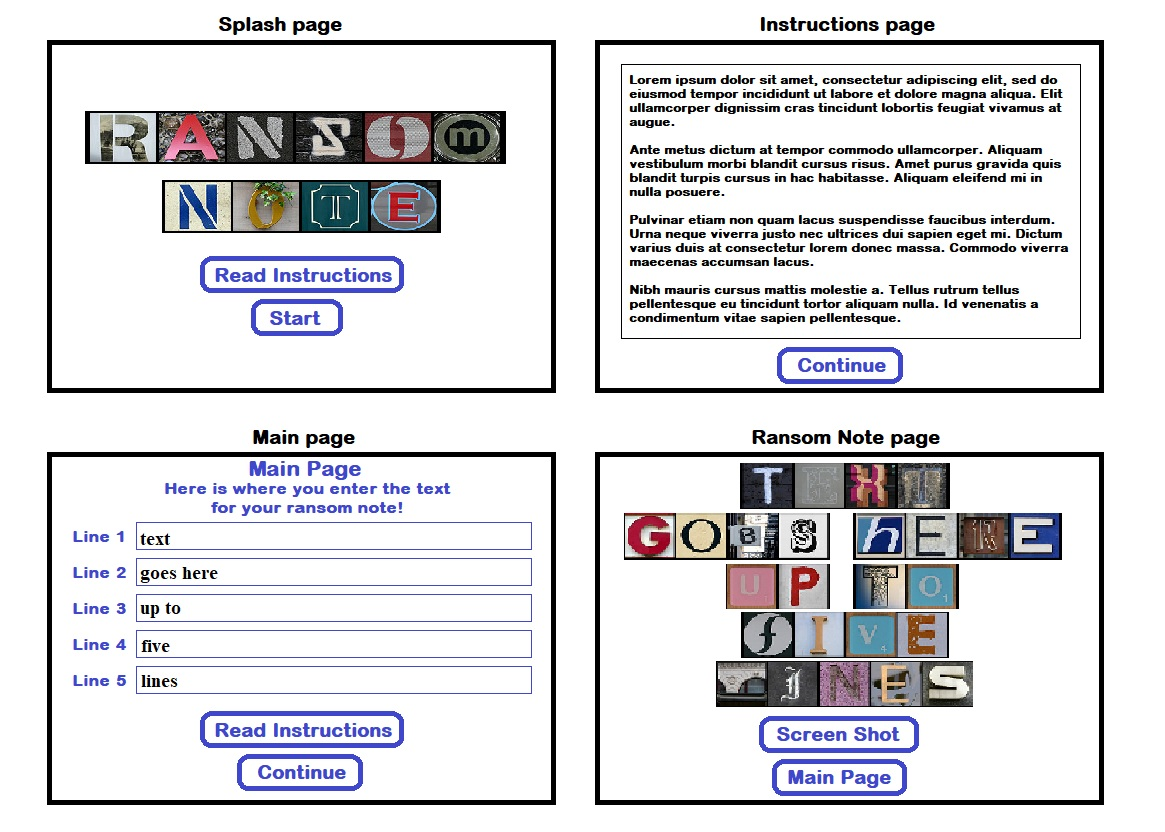
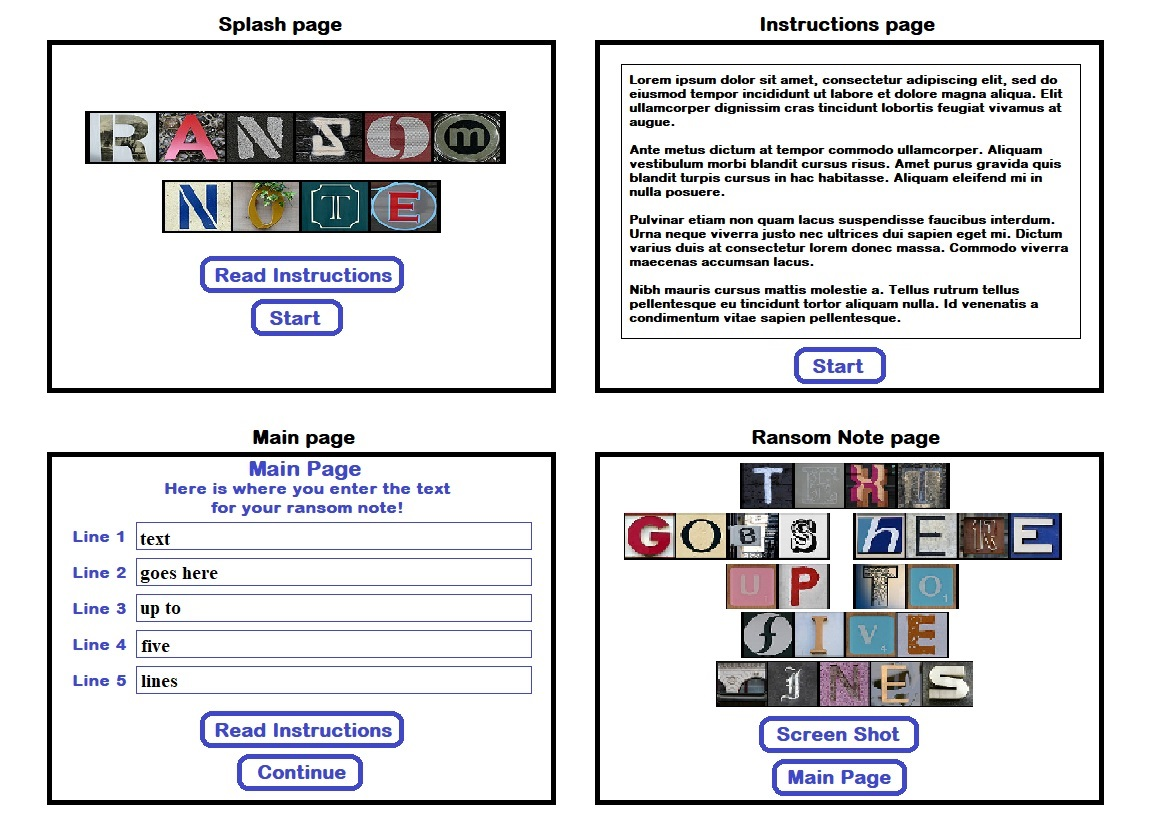
Start wiring up separate pages
The main function now calls generateHtml, renderPage, and listeners
functions. These three functions are working, enough to get the splash
page to render and the Read Instructions button to display a placeholder
for the Instructions page.

Changed region(s): [[0.6489, 0.4062, 0.7725, 0.4688]]

diff --git a/index.js b/index.js
@@ -1,30 +1,155 @@
 'use strict';
 
-function main(){
-    $('.lightbox_trigger').click(function(e){
-        e.preventDefault();
-        var image_href=$(this).attr("href");
-        if($('#lightbox').length>0){
-            $('#content').html(`<img src='${image_href}' />`);
-            $('#lightbox').fadeIn('slow');
-        } else{
-            var lightbox=`
-                <div id="lightbox">
-                    <p class="exit">X</p>
-                    <div id="content">
-                        <img src='${image_href}' />
-                    </div>
-                </div>
-            `;
-            $('body').append(lightbox);
-            $('#lightbox').hide();
-            $('#lightbox').fadeIn('slow');
-        }
-    });
+/******************************************************** 
+ All global variables here. 
+********************************************************/
 
-	$('body').on('click', '.exit', function() {
-		$('#lightbox').fadeOut();
-	});
+const STORE = {  // All the variables connected with the state of the DOM go here.
+    currentView: 'splash',
+    line_1: '',
+    line_2: '',
+    line_3: '',
+    line_4: '',
+    line_5: ''
+  };
+
+/******************************************************** 
+Step 1: Render the DOM. 
+********************************************************/
+
+/******************************************************** 
+Step 1a: Generate the HTML code. 
+********************************************************/
+
+const generateHtml={
+    doHtmlPages: function(){
+        console.log('In the doHtmlPages method.');
+        this.splashHtml();
+        this.instructionsHtml();
+        // this.mainHtml();
+        // this.ransomNoteHtml();
+    },
+
+    splashHtml: function(){
+        console.log('In the splashHtml method.');
+        let pageSplashHtml=`
+        <form class="buttonForm">
+            <div class="buttonBox"><button type="button" id="js-instructionsButton" class="js-button js-instructionsButton">Read Instructions</button></div>
+            <div class="buttonBox"><button type="button" id="js-userButton" class="js-button js-userButton"></button></div>
+        </form>
+        `;
+        
+        $('div.js-pageViewSplashHtml').html(pageSplashHtml);
+        $('div.js-pageViewSplashHtml').hide();
+    },
+
+    instructionsHtml: function(){
+        console.log('In the instructionsHtml method.');
+        let pageInstructionsHtml=`
+        <form class="buttonForm">
+            <p>This is where the instructions will go.</p>
+            <div class="buttonBox"><button type="button" id="js-userButton" class="js-button js-userButton"></button></div>
+        </form>
+        `;
+         
+        $('div.js-pageViewInstructionsHtml').html(pageInstructionsHtml);
+        $('div.js-pageViewInstructionsHtml').hide();
+    }
+}
+
+/************************************************************* 
+Step 1b: Render each HTML page, based on the current state. 
+**************************************************************/
+
+const renderPage={
+   doShowPages: function(){
+        console.log('In the doShowPages method.');
+        if(STORE.currentView==='splash'){
+            this.splashPage();
+        }
+        if(STORE.currentView==='instructions'){
+            this.instructionsPage();
+        }
+        // if(STORE.currentView==='main'){
+        //     this.mainPage();
+        // }
+        // if(STORE.currentView==='ransomNote'){
+        //     this.ransomNotePage();
+        // }
+   },
+
+    showCurrentPage: function(pageToShow, userButtonText){
+        console.log('In the showCurrentPage method.'); 
+        $('#js-userButton').text(userButtonText);
+        $('div.js-pageViewSplashHtml').hide();
+        $('div.js-pageViewInstructionsHtml').hide();
+        // $('div.js-pageViewMainHtml').hide();
+        // $('div.js-pageViewRansomNoteHtml').hide();
+        $(pageToShow).show();
+    },
+
+    splashPage: function(){
+        console.log('In the splashPage method.');
+        this.showCurrentPage('div.js-pageViewSplashHtml', 'Start');
+    },
+
+    instructionsPage: function(){
+        console.log('In the instructionsPage method.');
+        this.showCurrentPage('div.js-pageViewInstructionsHtml', 'Start');
+    }
+}
+
+/******************************************************** 
+ * Step 2: Listen for user interactions.
+ ********************************************************/
+
+const listeners={
+    listen: function(){
+        console.log('In the listen method.');
+        this.handleInstructionsButton();
+    },
+
+    handleInstructionsButton: function(){
+        console.log('In the handleInstructionsButton method.');
+        $('.js-instructionsButton').on('click', function() {
+            STORE.currentView='instructions';
+            renderPage.doShowPages();
+        });
+    }
+}
+
+function main(){
+    console.log('Begin the program');
+    generateHtml.doHtmlPages();
+    renderPage.doShowPages();
+    listeners.listen();
 }
 
 $(main);
+
+// function main(){
+//     $('.lightbox_trigger').click(function(e){
+//         e.preventDefault();
+//         var image_href=$(this).attr("href");
+//         if($('#lightbox').length>0){
+//             $('#content').html(`<img src='${image_href}' />`);
+//             $('#lightbox').fadeIn('slow');
+//         } else{
+//             var lightbox=`
+//                 <div id="lightbox">
+//                     <p class="exit">X</p>
+//                     <div id="content">
+//                         <img src='${image_href}' />
+//                     </div>
+//                 </div>
+//             `;
+//             $('body').append(lightbox);
+//             $('#lightbox').hide();
+//             $('#lightbox').fadeIn('slow');
+//         }
+//     });
+
+// 	$('body').on('click', '.exit', function() {
+// 		$('#lightbox').fadeOut();
+// 	});
+// }

diff --git a/index.html b/index.html
@@ -3,48 +3,42 @@
     <head>
         <meta charset="utf-8"/>
         <meta name="viewport" content="width=device-width"/>
-        <title>Simple Lightbox</title>
+        <title>Ransom Note</title>
         <link href="meyerweb.css" rel="stylesheet" type="text/css"/>
         <link href="index.css" rel="stylesheet" type="text/css"/>
     </head>
     <body>
         <main role="main">
-            <div class="js-backGround js-pageViewSplashHtml">
-                <!-- <div class='js-splashPage'></div> -->
-            </div>
-            <form class="buttonForm">
-                <div class="buttonBox"><button type="button" id="js-instructionsButton" class="js-button js-instructionsButton">Instructions</button></div>
-                <div class="buttonBox"><button type="button" id="js-startButton" class="js-button js-startButton">Start</button></div>
-            </form>
+            <div class="js-backGround js-pageViewSplashHtml"></div>
+            <div class="js-backGround js-pageViewInstructionsHtml"></div>
+
+            <!-- <div id="wrapper">
+                <h1>Super Simple Lightbox</h1>
+                <p>Our super simple lightbox demo. Here are the image links:
+                    <ul class="list">
+                        <li>
+                            <a href="https://images.unsplash.com/photo-1472214103451-9374bd1c798e?ixlib=rb-0.3.5&ixid=eyJhcHBfaWQiOjEyMDd9&s=569992b9ec9111e3956a7f0933f3f7bf&auto=format&fit=crop&w=1950&q=80" class="lightbox_trigger">
+                            Picture 1
+                            </a>
+                        </li>
+                        <li>
+                            <a href="https://images.unsplash.com/photo-1433873341513-633283fa55da?ixlib=rb-0.3.5&ixid=eyJhcHBfaWQiOjEyMDd9&s=20714d4c793ddf524108c2dad1817cd0&auto=format&fit=crop&w=1350&q=80" class="lightbox_trigger">
+                            Picture 2
+                            </a>
+                        </li>
+                        <li>
+                            <a href="https://images.unsplash.com/photo-1489684141651-7e45b4e77b3a?ixlib=rb-0.3.5&ixid=eyJhcHBfaWQiOjEyMDd9&s=71a99129088137016cc0926837e7dce8&auto=format&fit=crop&w=1317&q=80" class="lightbox_trigger">
+                            Picture 3
+                            </a>
+                        </li>
+                    </ul>
+                </p>
+            </div> -->
         </main>
         <script src="https://code.jquery.com/jquery-3.2.1.min.js"></script>
         <script src="index.js"></script>
     </body>
 </html>
-        
 
-
-        <!-- <div id="wrapper">
-            <h1>Super Simple Lightbox</h1>
-            <p>Our super simple lightbox demo. Here are the image links:
-                <ul class="list">
-                    <li>
-                        <a href="https://images.unsplash.com/photo-1472214103451-9374bd1c798e?ixlib=rb-0.3.5&ixid=eyJhcHBfaWQiOjEyMDd9&s=569992b9ec9111e3956a7f0933f3f7bf&auto=format&fit=crop&w=1950&q=80" class="lightbox_trigger">
-                        Picture 1
-                        </a>
-                    </li>
-                    <li>
-                        <a href="https://images.unsplash.com/photo-1433873341513-633283fa55da?ixlib=rb-0.3.5&ixid=eyJhcHBfaWQiOjEyMDd9&s=20714d4c793ddf524108c2dad1817cd0&auto=format&fit=crop&w=1350&q=80" class="lightbox_trigger">
-                        Picture 2
-                        </a>
-                    </li>
-                    <li>
-                        <a href="https://images.unsplash.com/photo-1489684141651-7e45b4e77b3a?ixlib=rb-0.3.5&ixid=eyJhcHBfaWQiOjEyMDd9&s=71a99129088137016cc0926837e7dce8&auto=format&fit=crop&w=1317&q=80" class="lightbox_trigger">
-                        Picture 3
-                        </a>
-                    </li>
-                </ul>
-            </p>
-        </div> -->
 
 

diff --git a/index.css b/index.css
@@ -20,6 +20,16 @@
     background-size: 75vw, cover;
 }
 
+.js-pageViewInstructionsHtml{
+    position: fixed;
+    top: 0;
+    left: 0;
+    width: 100%;
+    height: 100%;
+    background: url(overlay.png) repeat;
+    text-align: center;
+}
+
 h1{
     font-size: 2em;
     font-weight: 700;
@@ -59,21 +69,23 @@ body{
 }
 
 .js-instructionsButton{
-    width: 125px;
+    width: 100%;
 }
 
-.js-startButton{
-    width: 70px;
+.js-userButton{
+    width: 44%;
 }
 
 .buttonBox{
     display: block;
     margin: 0 auto;
     padding-bottom: 5px;
-    width: 150px;
+    width: 180px;
 }
 
 #wrapper{
+    position: relative;
+    display: block;
     width: 600px;
     margin: 0 auto;
     background: #fff;
@@ -101,7 +113,6 @@ body{
 
 #lightbox p{
     text-align: right;
-    /* color: #fff; */
     margin-right: 20px;
     font-size: 12px;
 }
